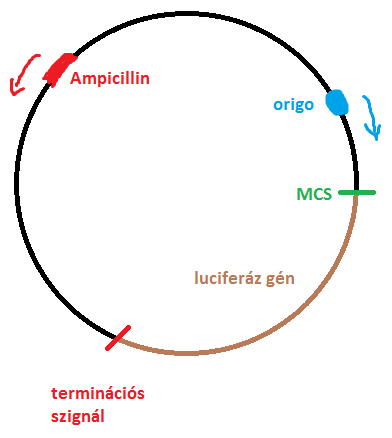
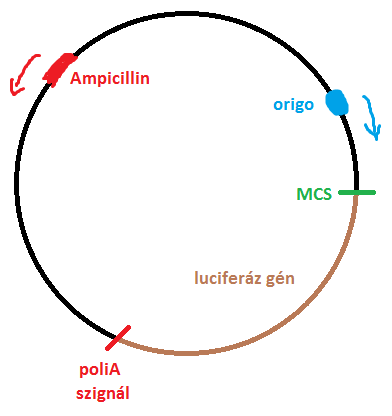
make some changes

diff --git a/SejtBiosz/sejtbiosz.html b/SejtBiosz/sejtbiosz.html
@@ -13,6 +13,7 @@
 	<details><summary class="phase">tételek</summary><div id="container"></div></details>
 	<input type="file" id="fileinput" style="display:none;">
 	<input style="position:absolute; left:35%; top:1%;" type="button" value="load LS" onclick="document.getElementById('fileinput').click();">
+	<div style="position:absolute; left:10%; top:2%; font-weight: bold;font-size: large;" id="questLeveL"></div>
 	<input style="position:absolute; left:50%; top:1%;" type="button" value="save LS" onclick="func_saveLS()">
 
 	<input type="button" class="white" style="border: 3px solid black;" onclick="func_spanClick(this)" id="btn_newQuest" value="0">
@@ -2542,12 +2543,14 @@
 		<li>amennyiben laktóz és glükóz koncentráció is magas (képen E) eset), akkoris van génexpresszió egy kis mértékben &#10140; ugyanis itt alapból gyenge a promoter <span class="WHITE">-35</span> szekvenciája, és ezért van szükség aktivátorra is</li>
 	</ul></details>
 	<details class="kerdes 4/5" id="msb.251"><summary>Mérés</summary><ul class="normal">
-		<li>ONPG &#10140; mesterséges szubsztrátot adok a &beta;-galaktozidázhoz &#10140; sárga színű termék lesz (minél sárgább, annál több termék keletkezett, tehát az enzimaktivitással arányos)</li>
-		<li>IPTG &#10140; induktor a laktóz helyett &#10140; ez így nem fog csökkeni a reakció során (ami enzimtermelés fokozást csökkentené), ellentétben a laktózzal ha az lenne</li>
+		<li>&beta;-galaktozidáz alapvetően a következő reakciót katalizálja: laktóz + H2O &#10140; glükóz + galaktóz</li>
+		<li>ONPG &#10140; jelen esetben ONPG  mesterséges szubsztrátot adok laktóz helyett &#10140; ebből ugyanis sárga színű termék lesz &#10140; minél sárgább, annál több termék keletkezett, tehát az enzimaktivitással arányos &#10140; spektrofotométerrel megmérhető</li>
+		<li>IPTG &#10140; induktor a laktóz helyett (ezzel válik le a lac, az operonról!) &#10140; ez így nem fog csökkeni a reakció során (ami enzimtermelés fokozást csökkentené), ellentétben a laktózzal ha az lenne</li>
 	  <hr><div>mérés 3 lépése</div>
-		<div><span class="WHITE">1.lépés</span> alapja, hogy "az enzimeket legyártjuk bizonyos idő alatt, majd minden mást elpusztítunk és csak azok maradnak" &#10140; itt különböző mennyiségben lesz az enzim, a 9 féle pipettában (lásd majd lentebb)</div>
+		<div><span class="WHITE">1.lépés</span> alapja, hogy "az enzimeket legyártjuk <abbr title="elsőnél 0perc, másodiknál 15perc, többinél 30perc">bizonyos idő</abbr> alatt, majd minden mást elpusztítunk és csak azok maradnak" &#10140; így különböző mennyiségekben lesz az enzim, a 9 féle pipettában (lásd majd lentebb)</div>
+		<div><span class="WHITE">&#10045;</span> amikor lejárt a <abbr title="elsőnél 0perc, másodiknál 15perc, többinél 30perc">"hagyom x percig enzimet termelni"</abbr> idő, akkor toluolt adok hozzájuk, és lehűtőm őket</div>
 		<div><span class="WHITE">2.lépés</span> mindegyik pipetta esetében ugyanaz &#10140; szubsztrátot hozzáadva az egyes enzim-oldatokhoz, hagyom mindegyiket 15percig működni</div>
-		/ezután hozzáadok Na-karbonát &#10140; enzimműködést leállítja/
+		<div><span class="WHITE">&#10045;</span> ezután hozzáadok Na-karbonát &#10140; enzimműködést leállítja</div>
 		<div><span class="WHITE">3.lépés</span> mindegyik pipetta esetében ugyanaz &#10140; megmérem spektrofotométerrel az oldatok abszorpcióját, ami arányos a keletkezett termékek koncentrációjával, hisz Lambert-Beer törvény <span class="WHITE"><abbr title="abszorbancia = OptikaiDenzitás = extinkció">A</abbr> = <abbr title="koncentráció">c</abbr> × <abbr title="moláris extinkciós koefficiens (adott hullámhosszon)">ε</abbr> × <abbr title="elnyelő réteg vastagsága">l</abbr></span></div>
 	  <hr><div>1.lépés</div><ol>
 			<img src="images/gygrfkglzn.png">
@@ -2653,7 +2656,7 @@
 		<img src="images/gykrnstkznc.png">
 		<li>kb. 4500bp hosszú</li>
 		<li>MCS &#10140; itt hasít az egyik restrikciós_endonukleáz (Nhe-I)</li>
-		<li>terminációs-szignál &#10140; előtte hasít a másik restrikciós_endonukleáz (Xba-I)</li>
+		<li>poliA-szignál &#10140; előtte hasít a másik restrikciós_endonukleáz (Xba-I)</li>
 		<li>(luciferáz gén elméleti jelentősége csupán annyi, hogy kb. pont előtte és utána vannak a hasítási szekvenciák &#10140; tehát luciferáz-hossznyi vágódik ki, ha mindkettőnél hasítás van)</li>
 	  <hr><strong>első lépés &#10140; inkubáció</strong>
 		<li>4 külön pipetta lett összeállítva</li><ul>
@@ -2673,7 +2676,7 @@
 	</ul></details>
 <!----></div></details>
 
-<!----><details><summary class="phase">#17 Egy ízérző receptor genotipizálása PCR-RFLP módszerrel.</summary><div><div class="title"> </div><ul class="normal">
+<!----><details><summary class="phase">#17 Egy ízérző receptor genotipizálása PCR-RFLP módszerrel.</summary><div><div class="title"> </div>
 	<details class="kerdes 4/10" id="msb.258"><summary><strong>Egy ízérző receptor genotipizálása PCR-RFLP módszerrel</strong> (60%)</summary><ul class="normal">
 	  <strong><u>Bevezetés</u></strong><div>
 		<li>5 féle alapíz van: édes,sós,savanyú,keserű,umami</li>
@@ -2731,7 +2734,7 @@
 	  <strong><u>(4) lépés: gélelektroforézis</u></strong><div>
 		<img style="max-width:30%" src="images/gy9_03.png">
 		<li>SDS-PAGE gyakorlaton már csináltunk ilyet fehérjékkel. Itt két kölönbséget említenék meg. </li><ul>
-			<li>Most nem kell kezelés SDS-el, mert a fajlagos_töltése már alapból megegyezik a különböző hosszúságú (64,239,303) DNS-szálaknak, hisz a foszfátok negatív töltése arányos a DNS hosszával <abbr title="fajlagos töltés pedig a töltés/tömeg hányados (és a tömeg is arányos a hosszal)">()</abbr>. Így jelen esetben csak a tömegtől függ az elmodulás: minél nagyobb a <abbr title="ami arányos a hosszával, így a 303 hosszú fog a legkevésbé elmozdulni">tömeg</abbr>, annál kevésbé mozdul el (hiszen a feszültség ami gyorsítja F erővel hat rá: F=ma &#10140; minél nagyobb m, annál kevésbé gyorsul).</li>
+			<li>Most nem kell kezelés SDS-el, mert a fajlagos_töltése már alapból megegyezik a különböző hosszúságú (64,239,303) DNS-szálaknak, hisz a foszfátok negatív töltése arányos a DNS hosszával <abbr title="fajlagos töltés pedig a töltés/tömeg hányados (és a tömeg is arányos a hosszal)">()</abbr>. Így jelen esetben csak a tömegtől függ az elmodulás: minél nagyobb a <abbr title="ami arányos a hosszával, így a 303 hosszú fog a legkevésbé elmozdulni">tömeg</abbr>, annál kevésbé mozdul el <abbr title="oka: ugyanis a gél alkotta ,,hálóban'' az a fehérje, amelyik hosszabb, az jobban elakad, és lassabban mozog ➜ a méret pedig arányos a tömeggel, így a tömegtől mégiscsak függ (lásd bővebben SDS-PAGE)">§</abbr>.</li>
 			<li>Poliakrilamid helyett agaróz alkotja a gélt. (Ez algákból nyerhető, és olcsóbb.)</li>
 		</ul>
 		<li>A gél DNS-festéket tartalmaz, amely a futtatás során a DNS-láncokkal nem-kovalens komplexet képez és UV-fénnyel indukálva látható tartományban fluoreszkál. Tehát a futtatás után UV-fénnyel átvilágítva láthatóvá válik az elmozdulás.</li>
@@ -2770,7 +2773,7 @@
 
 	  <strong><u>(4) gélelektroforézis</u></strong><div>
 		<img style="max-width:30%" src="images/gy9_03.png">
-		<li>SDS-PAGE gyakorlaton már csináltunk ilyet fehérjékkel. Itt két kölönbséget említenék meg. <span class="WHITE">1</span> Most nem kell kezelés SDS-el, mert a fajlagos_töltése már alapból megegyezik a különböző hosszúságú (64,239,303) DNS-szálaknak. Hiszen fehérjéknek atöltése nem volt arányos tömegükkel előtte, így fajlagos_töltésük(=töltés/tömeg) kölönbözött, ezért SDS kezeléssel közel azonos értékre lett beállítva a fajlagos töltésük. Azonban a különböző hosszúságú (64,239,303bp) DNS-sek fajlagos töltése már alapból megegyezik, hisz a foszfátok negatív töltése arányos a DNS hosszával <abbr title="fajlagos töltés pedig a töltés/tömeg hányados (és a tömeg is arányos a hosszal)">()</abbr>. Így jelen esetben csak a tömegtől függ az elmodulás: minél nagyobb a <abbr title="ami arányos a hosszával, így a 303 hosszú fog a legkevésbé elmozdulni">tömeg</abbr>, annál kevésbé mozdul el (hiszen a feszültség ami gyorsítja F erővel hat rá: F=ma &#10140; minél nagyobb m, annál kevésbé gyorsul). <span class="WHITE">2</span> Poliakrilamid helyett agaróz alkotja a gélt. (Ez algákból nyerhető, és olcsóbb.)</li>
+		<li>SDS-PAGE gyakorlaton már csináltunk ilyet fehérjékkel. Itt két kölönbséget említenék meg. <span class="WHITE">1</span> Most nem kell kezelés SDS-el, mert a fajlagos_töltése már alapból megegyezik a különböző hosszúságú (64,239,303) DNS-szálaknak. Hiszen fehérjéknek atöltése nem volt arányos tömegükkel előtte, így fajlagos_töltésük(=töltés/tömeg) kölönbözött, ezért SDS kezeléssel közel azonos értékre lett beállítva a fajlagos töltésük. Azonban a különböző hosszúságú (64,239,303bp) DNS-sek fajlagos töltése már alapból megegyezik, hisz a foszfátok negatív töltése arányos a DNS hosszával <abbr title="fajlagos töltés pedig a töltés/tömeg hányados (és a tömeg is arányos a hosszal)">()</abbr>. Így jelen esetben csak a tömegtől függ az elmodulás: minél nagyobb a <abbr title="ami arányos a hosszával, így a 303 hosszú fog a legkevésbé elmozdulni">tömeg</abbr>, annál kevésbé mozdul el <abbr title="oka: ugyanis a gél alkotta ,,hálóban'' az a fehérje, amelyik hosszabb, az jobban elakad, és lassabban mozog ➜ a méret pedig arányos a tömeggel, így a tömegtől mégiscsak függ (lásd bővebben SDS-PAGE)">§</abbr>. <span class="WHITE">2</span> Poliakrilamid helyett agaróz alkotja a gélt. (Ez algákból nyerhető, és olcsóbb.)</li>
 		<li>A gél DNS-festéket tartalmaz, amely a futtatás során a DNS-láncokkal nem-kovalens komplexet képez és UV-fénnyel indukálva látható tartományban fluoreszkál. Tehát a futtatás után UV-fénnyel átvilágítva láthatóvá válik az elmozdulás.</li>
 	  </div>
 
@@ -2806,7 +2809,7 @@
 		<li>proteináz K kezelés fontos, hogy gyorsan történjen, mert a membránfelszakadás után az endonukleázok különben odaférnének a DNS-hez és lebontanák</li>
 	  </div>
 	</ul></details>
-</ul><!----></div></details>
+<!----></div></details>
 
 
 <!--//////////////////////////////////////////////////////////////-->  </div>  <!--//////////////////////////////////////////////////////////////-->

diff --git a/javascript.js b/javascript.js
@@ -323,7 +323,7 @@ function toggleNote() {
 }
 
 
-function func_phaseID() {
+function func_phaseID() {  // details_phase id-je lesz egyenlő a summary_phase textel
 	var Table = document.getElementsByClassName("phase")
 	for ( var i = 0;   i < Table.length;   i++ ) {
 		Table[i].parentElement.id = Table[i].innerHTML
@@ -346,30 +346,17 @@ function func_phaseID() {
 	}
 }
 func_phaseID()
-function func_mainID() {
+function func_mainID() { // div_mainTitle id-je lesz egyenlő a div_mainTitle textel
 	var Table = document.getElementsByClassName("mainTitle")
 	for ( var i = 0;   i < Table.length;   i++ ) {
 		Table[i].parentElement.id = Table[i].innerHTML
 	}
 }
 func_mainID()
-function func_titleID() {
+function func_titleID() { // div_title id-je lesz egyenlő a div_title textel + egy szám (ez azért kert, mert különben lennének azonos id-k)
 	var Table = document.getElementsByClassName("title")
 	for ( var i = 0;   i < Table.length;   i++ ) {
-		var mainID = " "
-		if ( Table[i].parentElement.parentElement.parentElement.parentElement.nodeName == "DIV" ) {
-			mainID = Table[i].parentElement.parentElement.parentElement.parentElement.id
-			mainID = mainID + " &#10140; "
-		}
-		var phaseTextD = Table[i].parentElement.parentElement.parentElement.id
-		var titleText = Table[i].innerHTML
-		if ( titleText != "" ) {
-			titleText = " &#10140; " + titleText
-		}
-		titleText = mainID + phaseTextD + titleText
-		//Table[i].parentElement.id = titleText;
-		Table[i].parentElement.id = titleText;
-		//alert(Table[i].parentElement.id)
+		Table[i].parentElement.id = i + "," + Table[i].innerHTML
 	}
 }
 func_titleID()
@@ -1251,16 +1238,42 @@ function koviKerdes(){
 		}
 	}
 	if ( priorKerdesID != "nincs" ) {
-		fullTema = document.getElementById(priorKerdesID).parentElement.id
+		//fullTema = document.getElementById(priorKerdesID).parentElement.id
+		
+	  // set title – BEGIN 
+		var titleText = ""
+		/* főcímet nem szükséges mutatnia
+		if ( document.getElementById(priorKerdesID).parentElement.parentElement.parentElement.nodeName == "DIV" ) {
+			titleText = document.getElementById(priorKerdesID).parentElement.parentElement.parentElement.id + "<br>"
+		}
+		*/
+		titleText = titleText + document.getElementById(priorKerdesID).parentElement.parentElement.id // phase Címet adja hozzá
+		var titleID = document.getElementById(priorKerdesID).parentElement.id // phase Címet adja hozzá
+		titleID = titleID.slice(titleID.indexOf(",")+1)
+		if ( titleID != " " ) {
+			titleText = titleText + " &#10140; " + titleID
+		}
+
+		/*var divChilds = document.getElementById(priorKerdesID).parentElement.children
+		for (i = 0; i < divChilds.length; i++) { // title Címet adja hozzá
+			if ( divChilds[i].className == "title" ) {
+				if ( divChilds[i].innerHTML != " " ) {
+					titleText = titleText + " &#10140; " + divChilds[i].innerHTML
+				}
+			}
+		}*/
+		document.getElementById("questTitle").innerHTML = titleText;
+	  // END – set title
+
 		var identity = priorKerdesID.slice(priorKerdesID.indexOf(".")+1) // identity az, amit kiír: pl. (130) ismerd fel
 		var lvl = 0
 		if ( identity.indexOf("%") != -1 ) { // ha van % a kérdésID-ben
 			identity = identity.slice(0,identity.indexOf("%")-1)
 			lvl = priorKerdesID.slice(priorKerdesID.indexOf("%")+1)
 		}
-		document.getElementById("questTitle").innerHTML = "(" + identity + ") " + fullTema;
+		document.getElementById("questLeveL").innerHTML = "(" + identity + ")"
 
-		// BEGIN  LvL
+		// LeveL – BEGIN  
 		if ( lvl != 0 ) {
 			func_checkLvL(priorKerdesID.slice(0,priorKerdesID.indexOf("%")-1),lvl)
 			document.getElementById("select_lvl").style.visibility = 'visible';
@@ -1268,7 +1281,7 @@ function koviKerdes(){
 			document.getElementById("select_lvl").style.visibility = 'hidden';
 			lvl = 100
 		}
-		// END  LvL
+		// END – LeveL
 
 		var n = document.getElementById(priorKerdesID).className.search("open");
 		if ( n != -1 ) {

diff --git a/ANAT/anat.html b/ANAT/anat.html
@@ -14,6 +14,7 @@
 	<details><summary class="phase">tételek</summary><div id="container"></div></details>
 	<input type="file" id="fileinput" style="display:none;">
 	<input style="position:absolute; left:35%; top:1%;" type="button" value="load LS" onclick="document.getElementById('fileinput').click();">
+	<div style="position:absolute; left:10%; top:2%; font-weight: bold;font-size: large;" id="questLeveL"></div>
 	<input style="position:absolute; left:50%; top:1%;" type="button" value="save LS" onclick="func_saveLS()">
 
 	<input type="button" class="white" style="border: 3px solid black;" onclick="func_spanClick(this)" id="btn_newQuest" value="0">
@@ -110,6 +111,7 @@
 <details open><summary class="important"><strong>Project</strong></summary><ul class="normal">
 	<li><span class="WHITE">3D</span> orrüreg</li>
 	<li>vérkeringés &#10140; húgycső &#10140; képeket róla!!!</li>
+	<li>csontok &#10140; felismerni, <abbr title="3irányba, azt is hogy mi alapján">elhelyezni</abbr>, főbb részeinek neve és szerepe</li>
   <hr>
 	<li>oldone (kérdéseket lehessen upgradelni nehezebb fokozatra)</li>
 	<li>(nyirokkeringésről majd csináljak valami egyszerű alaprajzot, ami alapján megtudom tanulni)</li>

diff --git a/BioKemia/I/biokemia.html b/BioKemia/I/biokemia.html
@@ -14,6 +14,7 @@
 	<details><summary class="phase">tételek</summary><div id="container"></div></details>
 	<input type="file" id="fileinput" style="display:none;">
 	<input style="position:absolute; left:35%; top:1%;" type="button" value="load LS" onclick="document.getElementById('fileinput').click();">
+	<div style="position:absolute; left:10%; top:2%; font-weight: bold;font-size: large;" id="questLeveL"></div>
 	<input style="position:absolute; left:50%; top:1%;" type="button" value="save LS" onclick="func_saveLS()">
 
 	<input type="button" class="white" style="border: 3px solid black;" onclick="func_spanClick(this)" id="btn_newQuest" value="0">

diff --git a/ModMem/ModMem.html b/ModMem/ModMem.html
@@ -20,6 +20,7 @@
 	<details><summary class="phase">tételek</summary><div id="container"></div></details>
 	<input type="file" id="fileinput" style="display:none;">
 	<input style="position:absolute; left:35%; top:1%;" type="button" value="load LS" onclick="document.getElementById('fileinput').click();">
+	<div style="position:absolute; left:10%; top:2%; font-weight: bold;font-size: large;" id="questLeveL"></div>
 	<input style="position:absolute; left:50%; top:1%;" type="button" value="save LS" onclick="func_saveLS()">
 
 	<input type="button" class="white" style="border: 3px solid black;" onclick="func_spanClick(this)" id="btn_newQuest" value="0">
